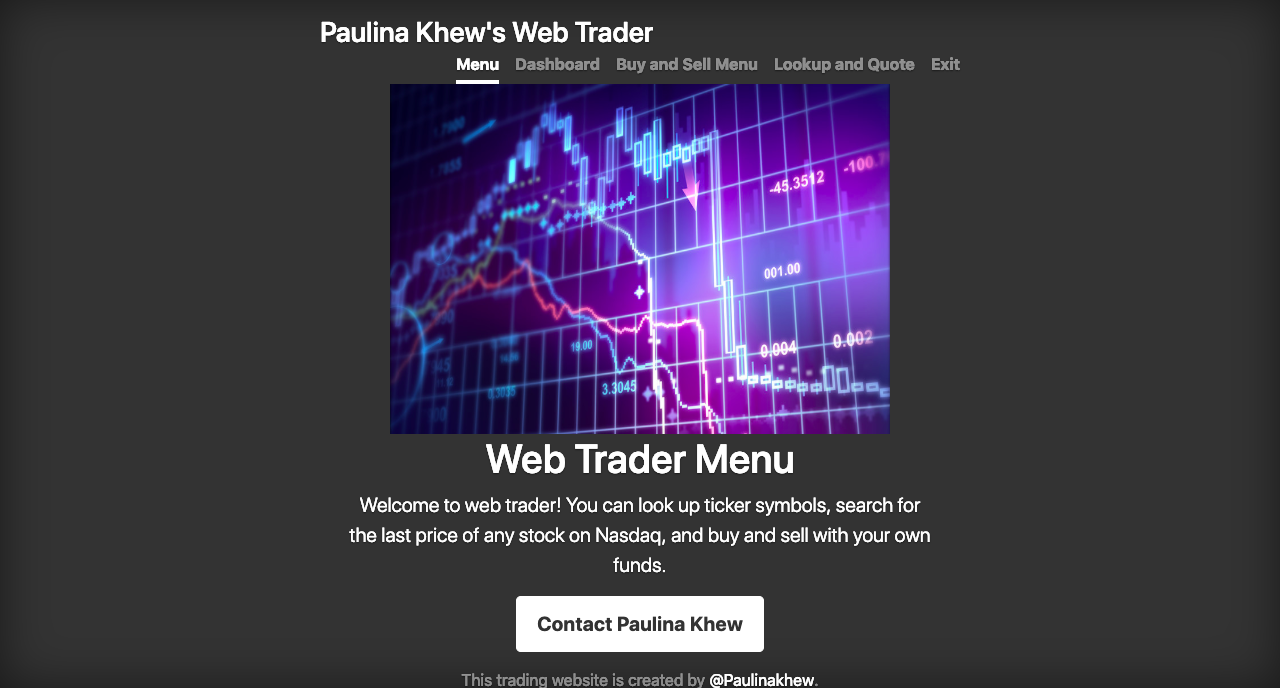
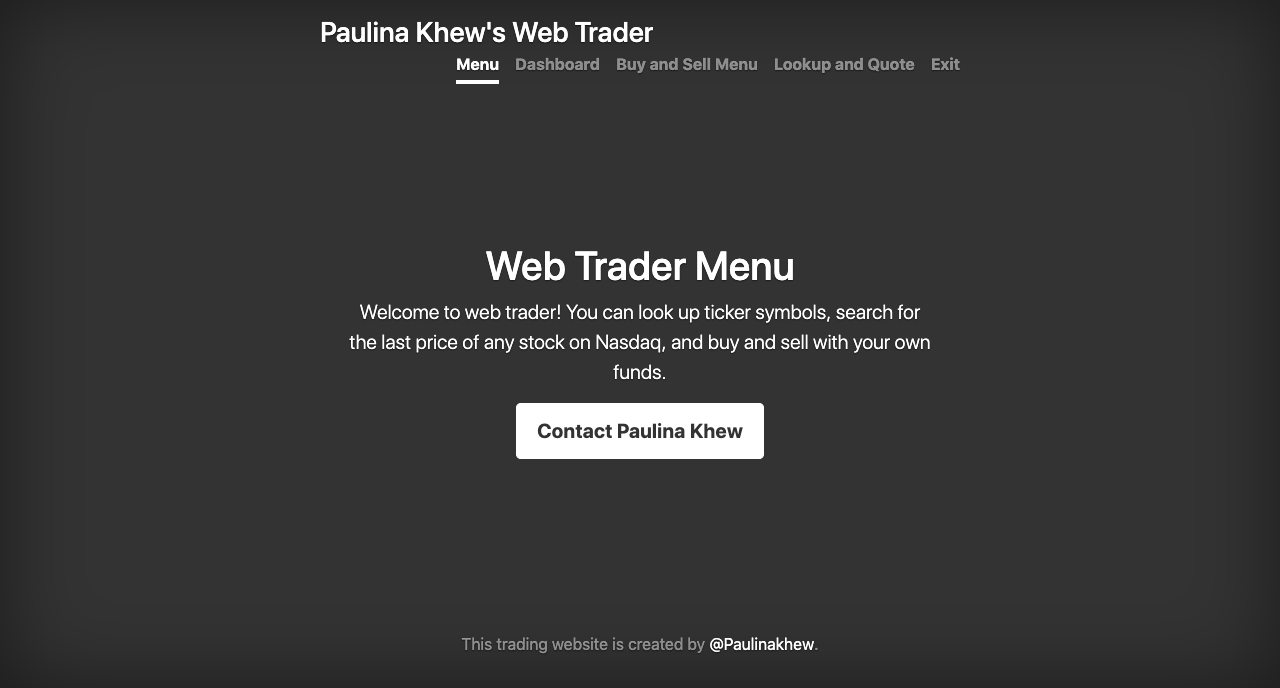
:lipstick: Change UI of login and menu pages
#25

diff --git a/templates/login.html b/templates/login.html
@@ -123,12 +123,12 @@
             <div class="d-flex justify-content-center h-100">
                 <div class="card">
                     <div class="card-header">
-                        <h3>Sign In</h3>
-                        <div class="d-flex justify-content-end social_icon">
+                        <h3>Log In to Web Trader</h3>
+                        <!--<div class="d-flex justify-content-end social_icon">
                             <span><i class="fab fa-facebook-square"></i></span>
                             <span><i class="fab fa-google-plus-square"></i></span>
                             <span><i class="fab fa-twitter-square"></i></span>
-                        </div>
+                        </div>-->
                     </div>
                     <div class="card-body">
                         {% if cannot_login %}

diff --git a/templates/menu.html b/templates/menu.html
@@ -38,7 +38,7 @@
                 </div>
             </header>
             <main role="main" class="inner cover">
-                <img src="static/trading.jpg" alt="Stock Trading photo" width=500 height=350>
+                
                 <h1 class="cover-heading">Web Trader Menu</h1>
                 <p class="lead">Welcome to web trader! You can look up ticker symbols, search for the last price of any stock on Nasdaq, and buy and sell with your own funds. </p>
                 <p class="lead">
